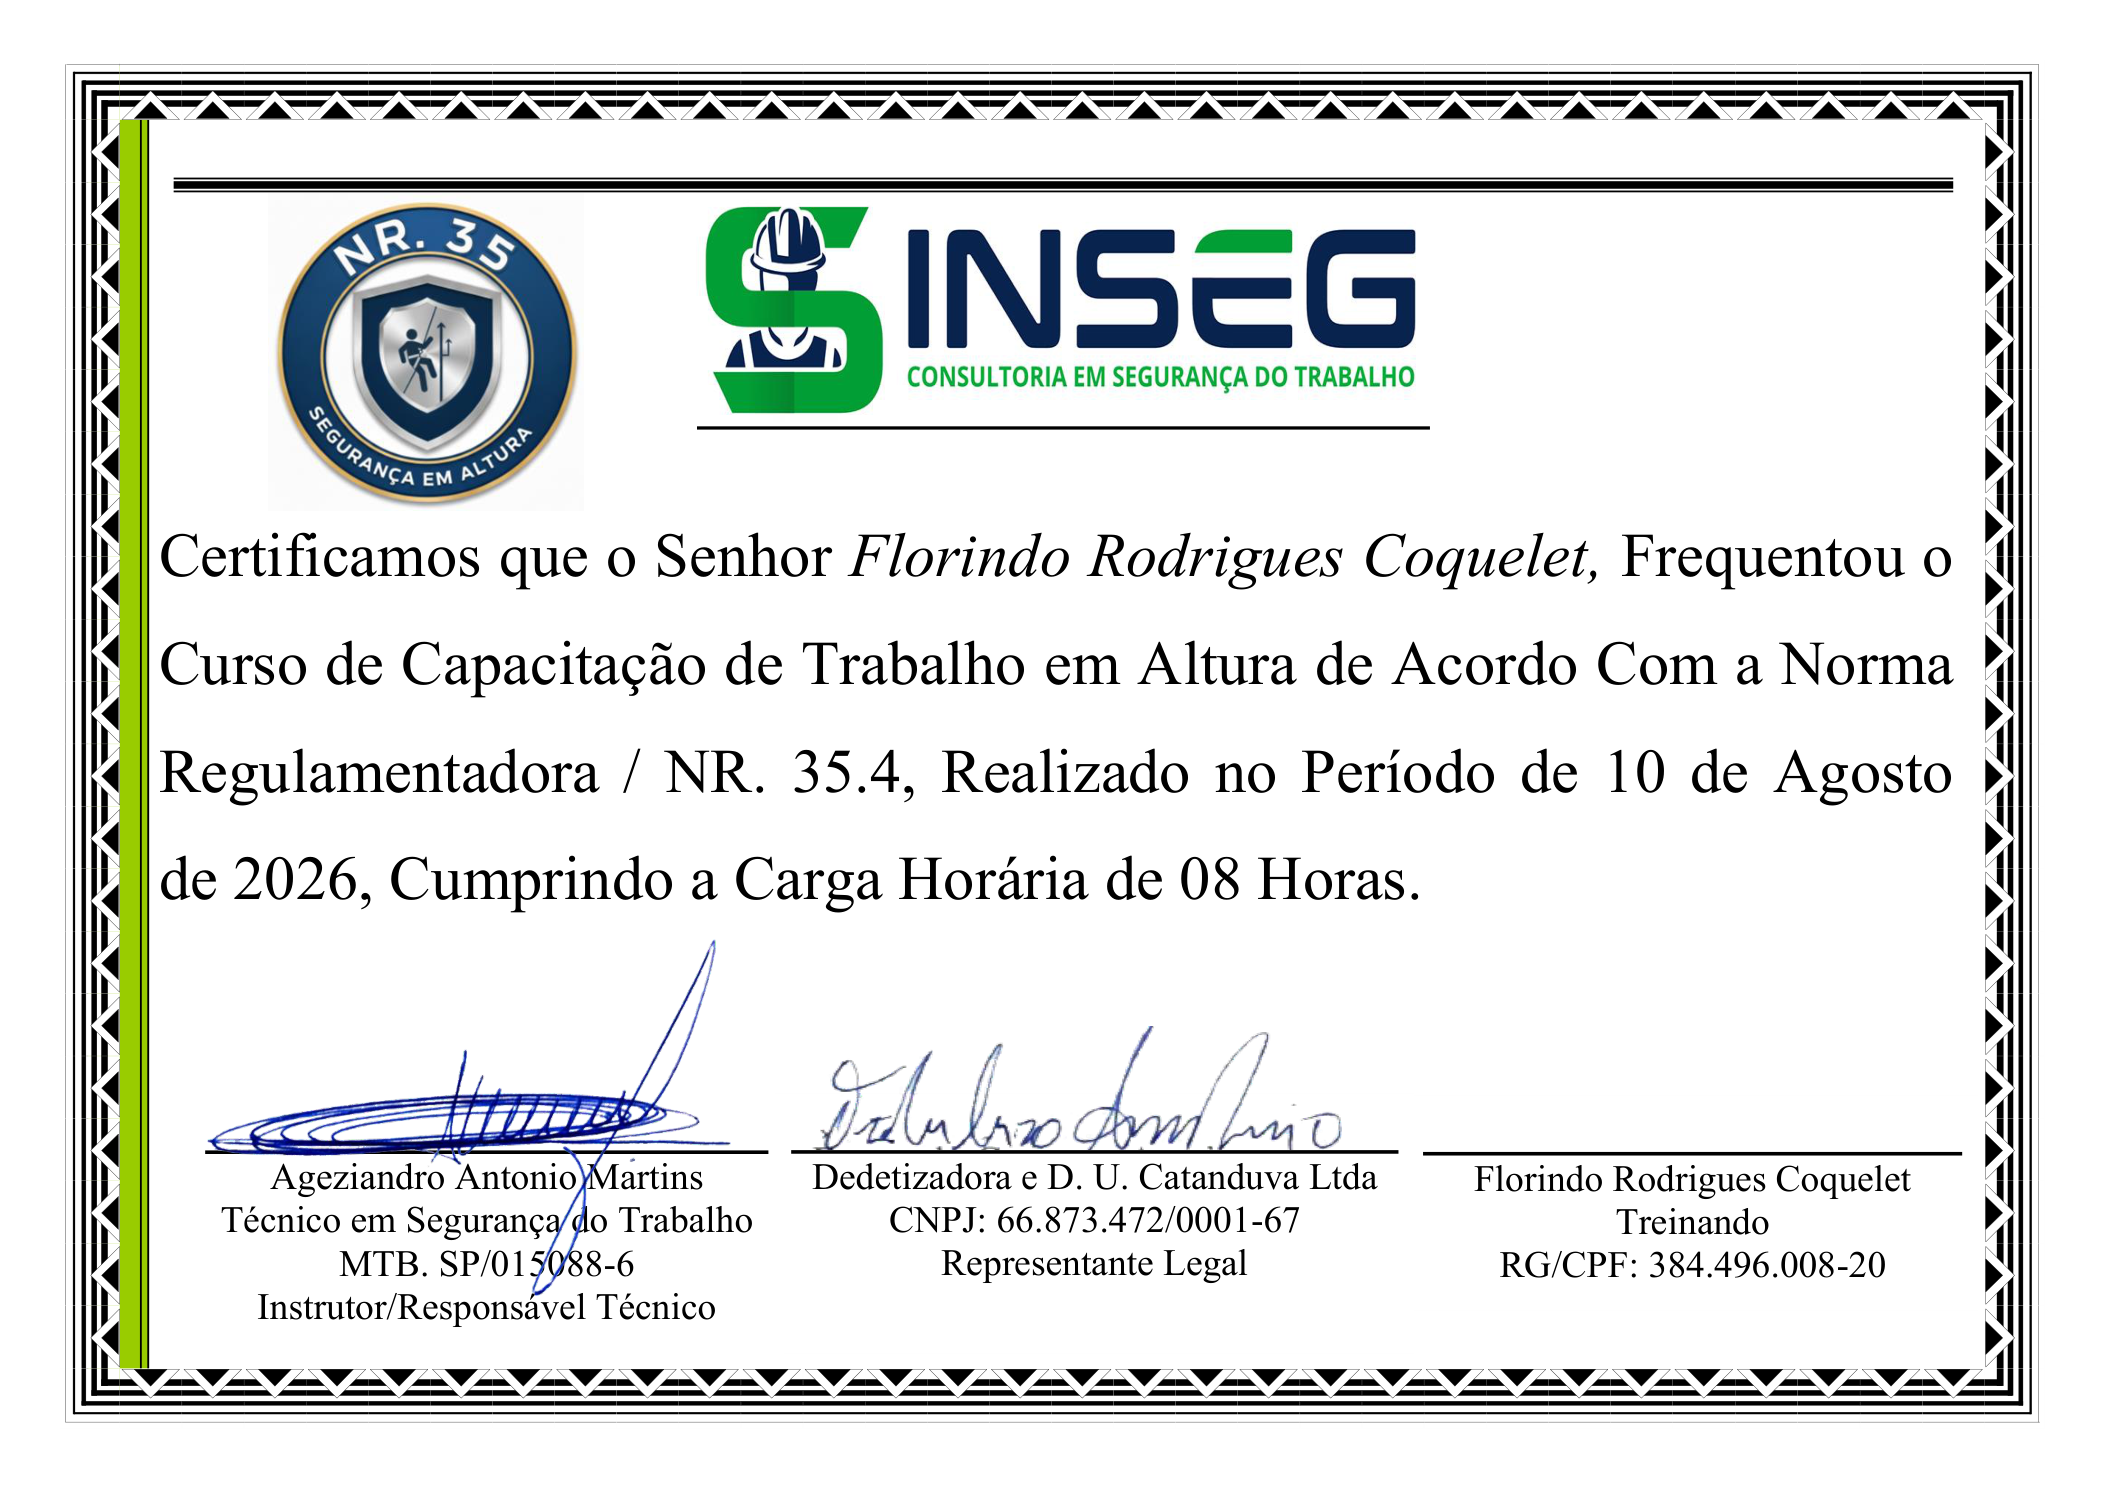
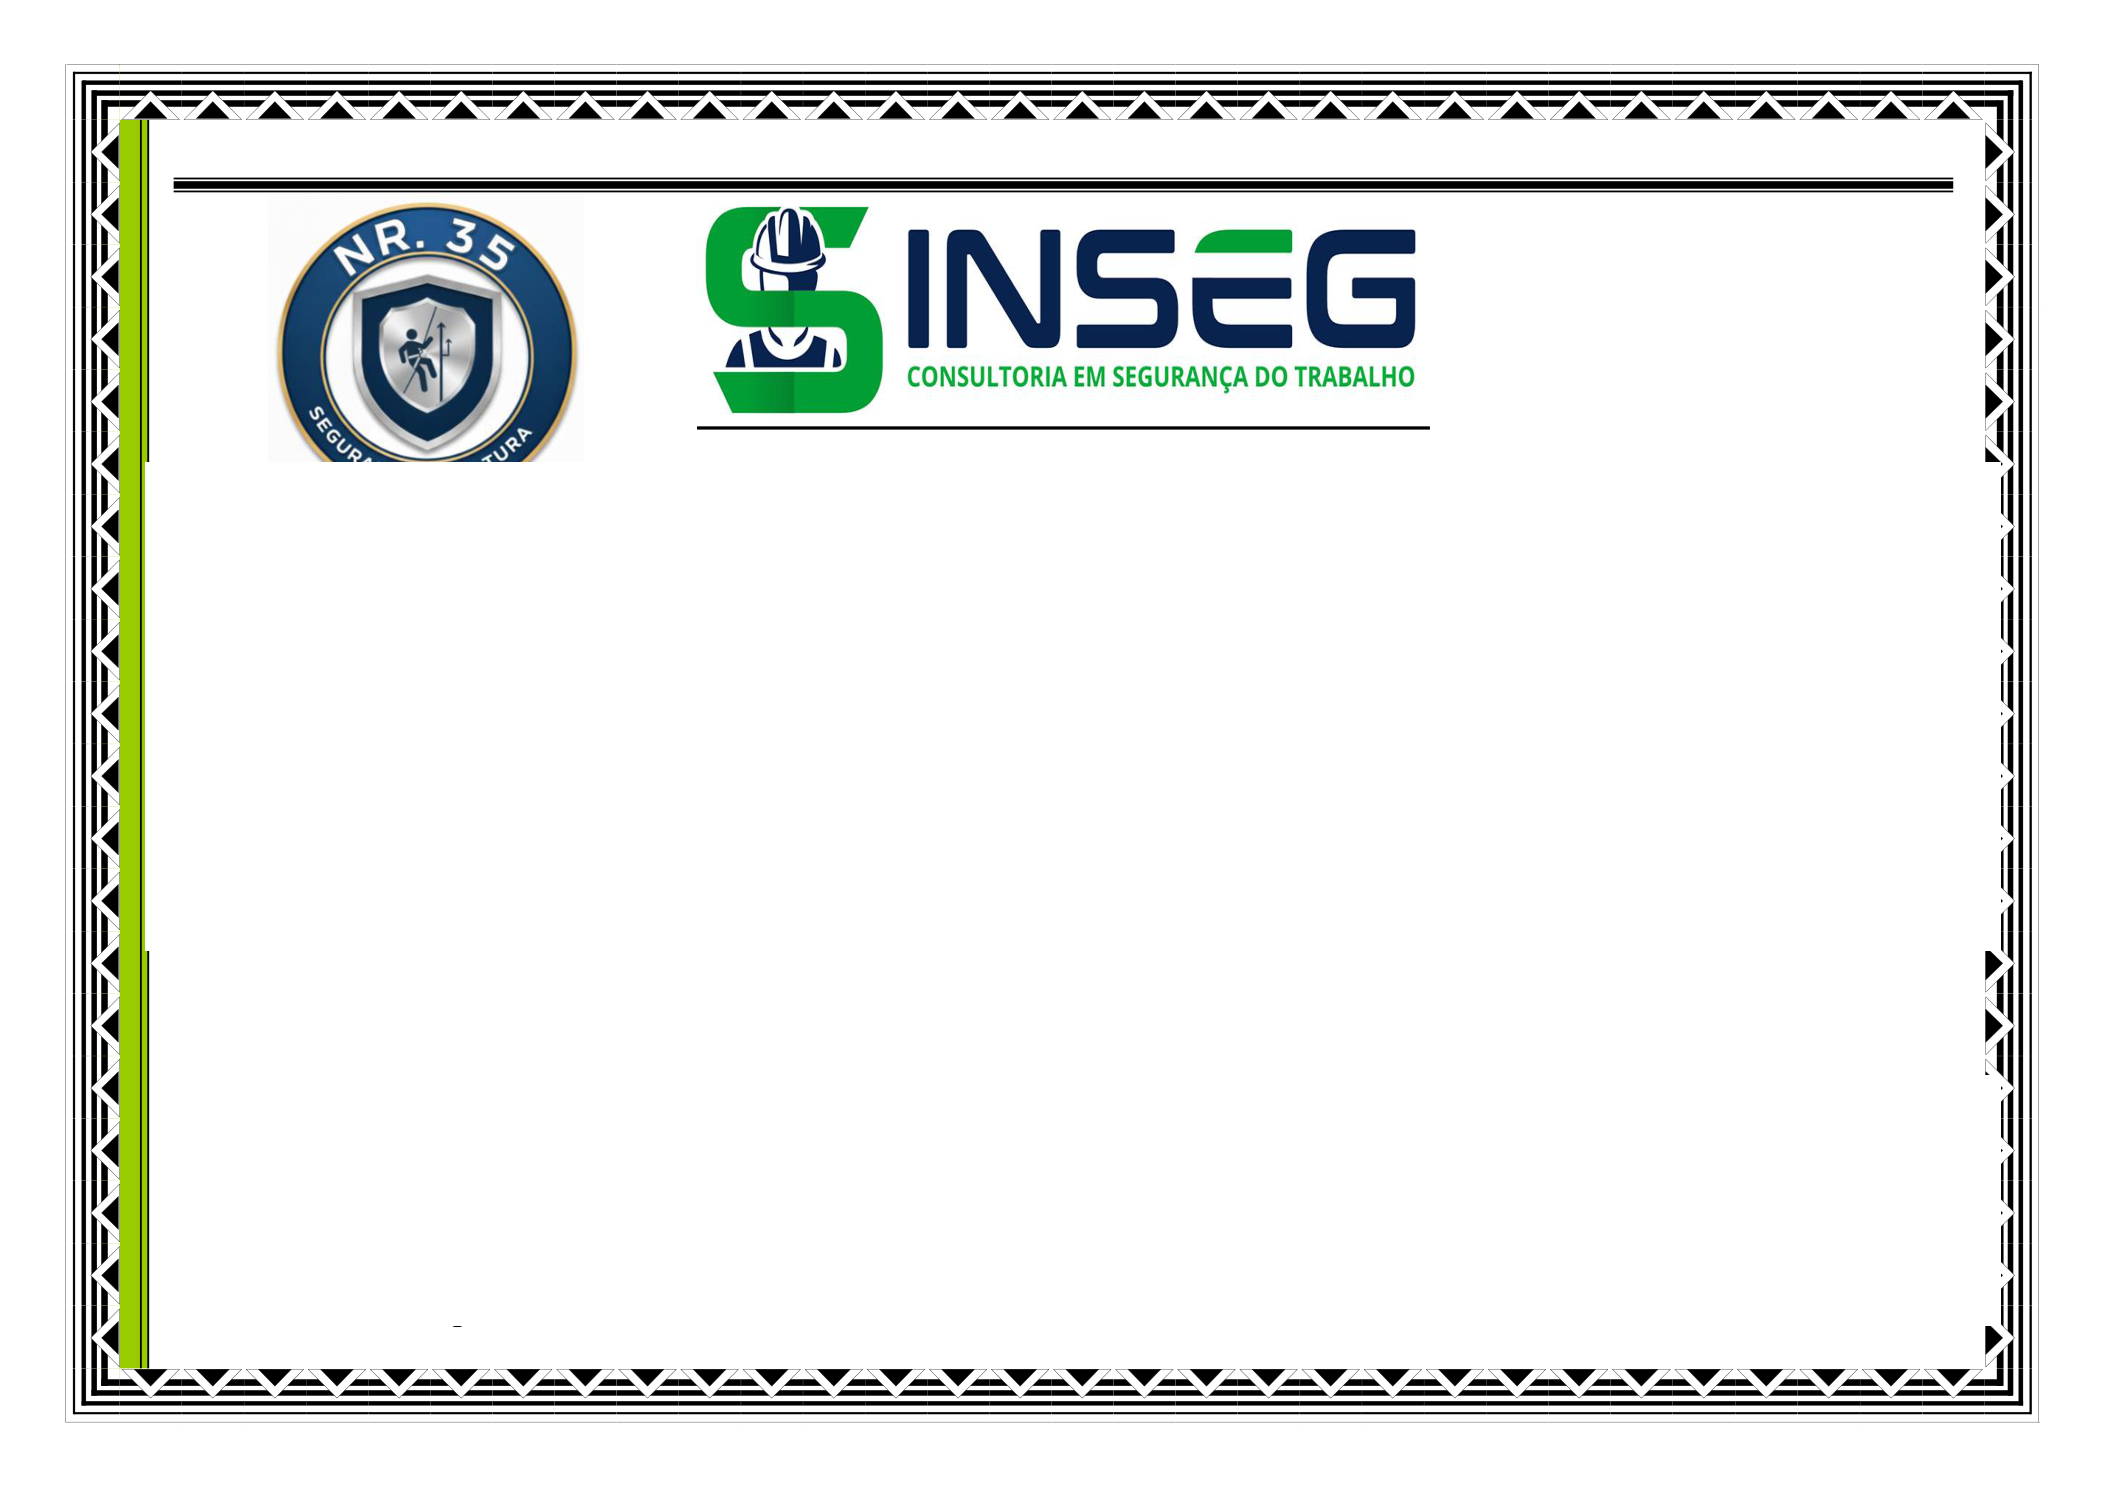
Reduz a fonte do certificado para 23 pt e limpa o endereco no molde sem cobrir a moldura.

diff --git a/apps/api/src/training/training-pdf.service.ts b/apps/api/src/training/training-pdf.service.ts
@@ -139,6 +139,7 @@ async function drawImage(
   y: number,
   w: number,
   h: number,
+  opts?: { stretch?: boolean },
 ) {
   if (!filePath || !existsSync(filePath)) return false;
   try {
@@ -162,11 +163,16 @@ async function drawImage(
       });
       return true;
     }
-    doc.image(filePath, x, y, {
-      fit: [w, h],
-      align: 'center',
-      valign: 'center',
-    });
+    if (opts?.stretch) {
+      // molde Word: estica na página inteira para as coordenadas baterem
+      doc.image(filePath, x, y, { width: w, height: h });
+    } else {
+      doc.image(filePath, x, y, {
+        fit: [w, h],
+        align: 'center',
+        valign: 'center',
+      });
+    }
     return true;
   } catch {
     return false;
@@ -201,17 +207,43 @@ function drawCertificateBody(
 ) {
   const bodyX = 64;
   const bodyW = pageW - 128;
+  const fontSize = 23;
+  const lineGap = 14.5;
   const full = `Certificamos que o Senhor ${worker.name}, ${input.certificateCourseClause}, Realizado no Período de ${formatDateExtenso(input.heldOn)}, Cumprindo a Carga Horária de ${padHours(input.hours)} Horas.`;
-  doc
-    .font('Times-Roman')
-    .fontSize(24)
-    .fillColor(INK)
-    .text(full, bodyX, bodyY, {
-      width: bodyW,
-      align: 'justify',
-      lineGap: 14.5,
-      height: 168,
-    });
+  doc.font('Times-Roman').fontSize(fontSize).fillColor(INK);
+  const words = full.split(/\s+/).filter(Boolean);
+  const lines: string[] = [];
+  let current = '';
+  for (const word of words) {
+    const trial = current ? `${current} ${word}` : word;
+    if (doc.widthOfString(trial) <= bodyW) {
+      current = trial;
+    } else {
+      if (current) lines.push(current);
+      current = word;
+    }
+  }
+  if (current) lines.push(current);
+
+  let y = bodyY;
+  const step = fontSize + lineGap;
+  for (let i = 0; i < lines.length; i += 1) {
+    const line = lines[i];
+    const parts = line.split(' ');
+    const isLast = i === lines.length - 1;
+    if (isLast || parts.length < 2) {
+      doc.text(line, bodyX, y, { lineBreak: false });
+    } else {
+      const textW = parts.reduce((sum, part) => sum + doc.widthOfString(part), 0);
+      const gap = (bodyW - textW) / (parts.length - 1);
+      let x = bodyX;
+      for (const part of parts) {
+        doc.text(part, x, y, { lineBreak: false });
+        x += doc.widthOfString(part) + gap;
+      }
+    }
+    y += step;
+  }
 }
 
 function drawSignatureColumns(
@@ -278,22 +310,13 @@ const FRONT_LAYOUT: Record<
   nr01: {
     bodyY: 197,
     sigY: 478,
-    covers: [
-      [64, 195, 728, 168],
-      [72, 388, 230, 160],
-      [300, 410, 255, 130],
-      [555, 448, 245, 95],
-    ],
+    // áreas variáveis já estão em branco no PNG do molde
+    covers: [],
   },
   nr35: {
     bodyY: 197,
     sigY: 462,
-    covers: [
-      [58, 186, 726, 220],
-      [72, 370, 230, 160],
-      [300, 400, 250, 130],
-      [555, 430, 245, 100],
-    ],
+    covers: [],
   },
 };
 
@@ -302,13 +325,13 @@ const BACK_LAYOUT: Record<
   { addressCover: Rect; addressTextY: number }
 > = {
   nr01: {
-    // só o interior da caixa — moldura e lista ficam do molde Word
-    addressCover: [468, 507, 310, 34],
-    addressTextY: 509,
+    // só as linhas do endereço, bem dentro da caixa (não toca a borda)
+    addressCover: [456, 509, 328, 28],
+    addressTextY: 510,
   },
   nr35: {
-    addressCover: [164, 470, 318, 34],
-    addressTextY: 471,
+    addressCover: [162, 471, 322, 28],
+    addressTextY: 472,
   },
 };
 
@@ -427,7 +450,7 @@ export class TrainingPdfService {
     const key = isNr35(input.nrLabel) ? 'nr35' : 'nr01';
     const template = bundledTemplatePage(input.nrLabel, 1);
     if (template) {
-      await drawImage(doc, template, 0, 0, w, h);
+      await drawImage(doc, template, 0, 0, w, h, { stretch: true });
       const layout = FRONT_LAYOUT[key];
       for (const rect of layout.covers) coverWhite(doc, rect);
       drawCertificateBody(doc, input, worker, layout.bodyY, w);
@@ -466,19 +489,19 @@ export class TrainingPdfService {
       : ['Conteúdo definido no modelo do curso'];
     const template = bundledTemplatePage(input.nrLabel, 2);
     if (template) {
-      await drawImage(doc, template, 0, 0, w, h);
+      await drawImage(doc, template, 0, 0, w, h, { stretch: true });
       const layout = BACK_LAYOUT[key];
-      coverWhite(doc, layout.addressCover);
+      // área do endereço já vem em branco no PNG do molde — só escreve o valor
       const [ax, , aw] = layout.addressCover;
       doc
         .font('Times-Roman')
         .fontSize(12)
         .fillColor(INK)
-        .text(input.address?.trim() || '—', ax, layout.addressTextY, {
-          width: aw,
+        .text(input.address?.trim() || '—', ax + 2, layout.addressTextY, {
+          width: aw - 4,
           align: 'center',
-          lineGap: 1.2,
-          height: 32,
+          lineGap: 1.0,
+          height: 28,
         });
       return;
     }
